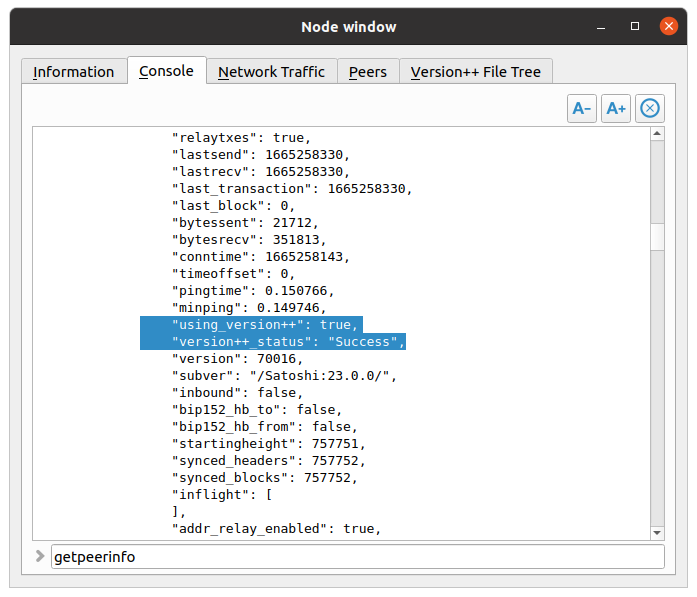
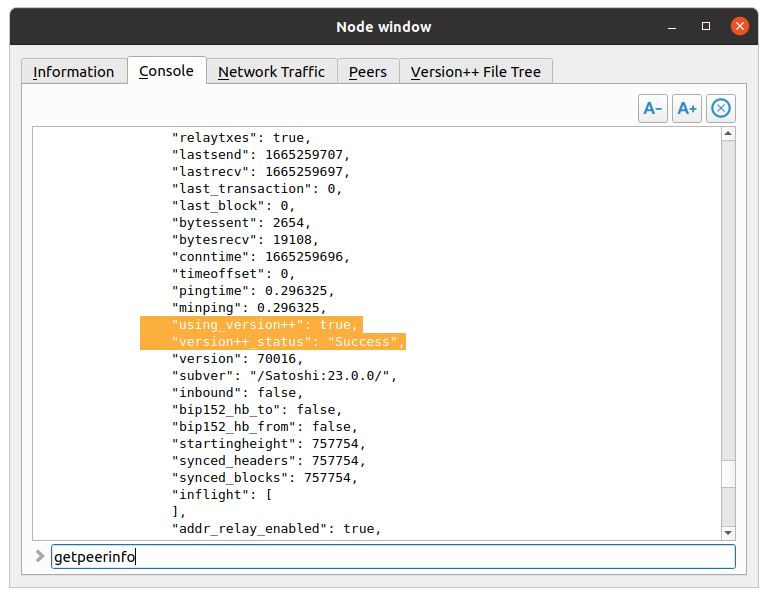
Fix highlighting color

Changed region(s): [[0.0, 0.0905, 0.9943, 0.9648], [0.4218, 0.0302, 0.5725, 0.0603], [0.9039, 0.0302, 0.9943, 0.0603]]

diff --git a/src/qt/rpcconsole.cpp b/src/qt/rpcconsole.cpp
@@ -936,6 +936,7 @@ void RPCConsole::clear(bool keep_prompt)
 #endif
     ui->messagesWidget->document()->setDefaultStyleSheet(
         QString(
+                "::selection { background: #FCAF3E; }" // Cybersecurity Lab: Change selection color
                 "table { }"
                 "td.time { color: #808080; font-size: %2; padding-top: 3px; } "
                 "td.message { font-family: %1; font-size: %2; white-space:pre-wrap; } "
